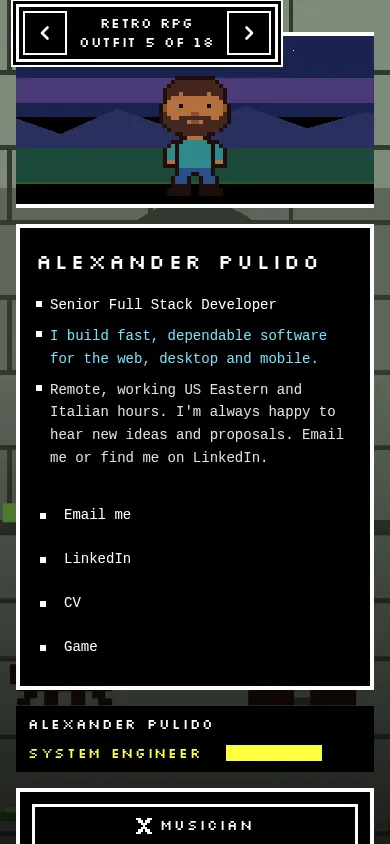
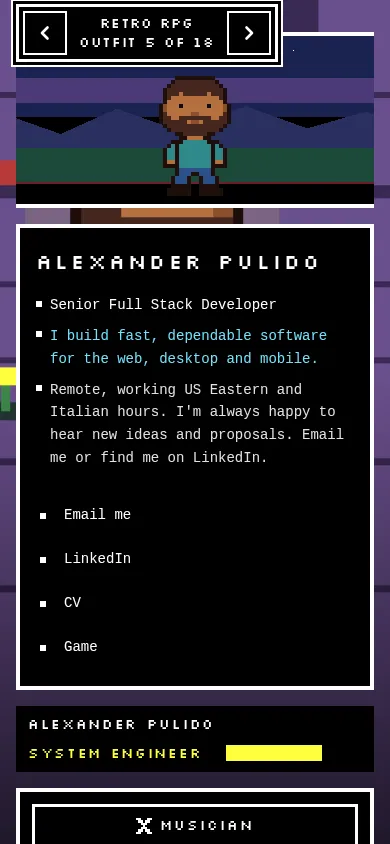
feat: retro rpg is a run through the underground of the game it comes from, one room per section in its order of places, each a short script the scroll plays at a steady speed: he gets up from the flower bed and the save star sparkles in the doorway, presses the marked wall switches and the spikes s

Changed region(s): [[0.0, 0.0, 1.0, 0.9242], [0.9538, 0.955, 1.0, 1.0], [0.0, 0.955, 0.0615, 1.0]]

diff --git a/src/components/themes/RetroRPG/savePoint.tsx b/src/components/themes/RetroRPG/savePoint.tsx
@@ -43,7 +43,7 @@ export function SavePoint({ profession, scene, still }: { profession: Profession
   const saved = saves > 0
 
   return (
-    <section data-scene={scene.id} data-saved={saved} className="relative z-20 px-4 pb-8 pt-[60svh] motion-reduce:pt-16 sm:px-6" aria-labelledby={CONTACT_HEADING}>
+    <section data-scene={scene.id} data-saved={saved} className="relative z-20 px-4 pb-8 pt-[60svh] motion-reduce:pt-16 max-md:pt-[130svh] sm:px-6" aria-labelledby={CONTACT_HEADING}>
       {still && <RpgStage scene={scene} settled />}
       <div className="relative mx-auto max-w-3xl">
         <div className="relative mb-4 flex justify-center">

diff --git a/src/components/themes/RetroRPG/sections.tsx b/src/components/themes/RetroRPG/sections.tsx
@@ -181,7 +181,7 @@ export function SceneSection({ scene, slot, still }: SceneSectionProps) {
   return (
     <section data-scene={scene.id} aria-label={label} className="relative px-4 pb-[60svh] motion-reduce:pb-16 sm:px-6 lg:px-[6vw]">
       {still && <RpgStage scene={scene} settled />}
-      <header className="relative flex min-h-[90svh] items-end pb-4 motion-reduce:min-h-[70svh]">
+      <header className="relative flex min-h-[90svh] items-end pb-4 motion-reduce:min-h-[70svh] max-md:min-h-[130svh]">
         <SectionHeader title={title} />
       </header>
       <div className="relative max-w-[42rem]">
